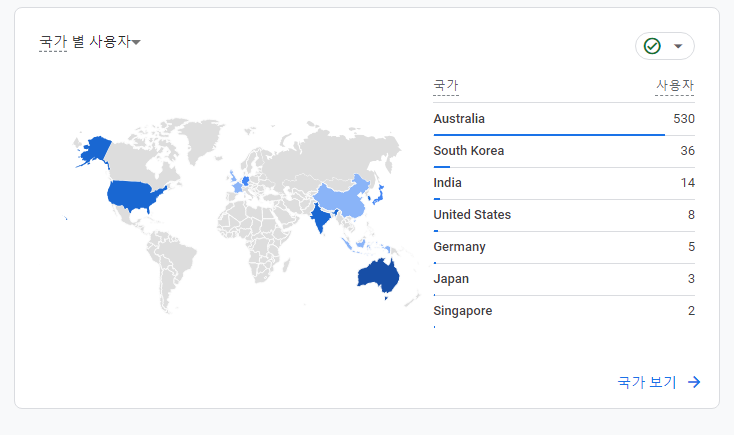
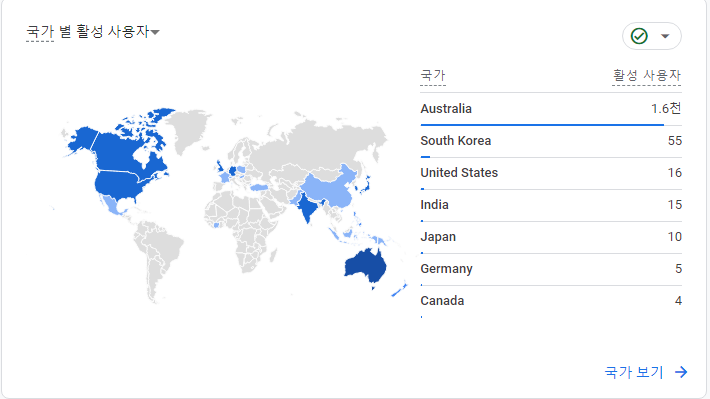
chore: joahair ui ux 성과 섹션 컨텐츠 변경

diff --git a/src/app/(menu)/projects/(projects)/joahair/page.tsx b/src/app/(menu)/projects/(projects)/joahair/page.tsx
@@ -112,7 +112,7 @@ export default function Page() {
             </h1>
             <div className={styles['page-element']}>
               <p className={styles['description-title']}>
-                Google Analytics을 통한 사용자 분석 및 UX 개선
+                Google Analytics을 통한 사용자 분석 및 UI/UX 개선
               </p>
               <Image
                 className={styles['project-capture']}
@@ -128,22 +128,24 @@ export default function Page() {
                 height={650}
                 alt="projectCapture"
               />
-              <div className={styles['description']}>
-                <p>
-                  Google Analytics를 프로젝트와 연동하고, Google Analytics의 통계 분석을 통해, 약
-                  85% 이상의 사용자가 호주에 위치해 있음을 반영하여 AWS 인프라와 Firebase 리전을
-                  호주로 설정하고, CDN을 구성하여 S3 버킷 데이터를 캐시하여 전달하는 프로세스를
-                  구축하여 로딩 속도를 최적화했습니다.
-                </p>
-                <p>
-                  또한, 모바일 사용자가 약 84%임을 감안하여 모든 디바이스에 대응하는 100% 반응형
-                  웹을 구현하고, keyframes와 transition을 사용해 marquee, spin, unfold 등 여러
-                  애니메이션 효과를 구현했습니다.
-                </p>
-              </div>
+              <ul className={`${styles['description']} ${styles['bullet']}`}>
+                <li>
+                  Google Analytics의 통계 분석을 통해, 서비스 사용자의 약 95%가 호주에 집중된 상황을
+                  인식했습니다. 따라서, AWS 인프라와 Firebase 리전을 호주로 설정하고, CDN을 구성하여
+                  CDN 서버에 S3 버킷 데이터를 캐시하는 프로세스를 구축하여 글로벌 서비스의 로딩
+                  속도를 최적화했습니다.
+                </li>
+                <li>
+                  모바일 사용자가 약 85%임을 감안하여 모든 디바이스에 대응하는 100% 반응형 웹을
+                  구현하고, keyframes와 transition을 사용해 marquee, spin, unfold 등 여러 애니메이션
+                  효과를 구현했습니다.
+                </li>
+              </ul>
             </div>
             <div className={styles['page-element']}>
-              <p className={styles['description-title']}>UX 개선을 통한 방문자 및 검색 실적 성과</p>
+              <p className={styles['description-title']}>
+                UI/UX 개선을 통한 방문자 및 검색 실적 성과
+              </p>
               <Image
                 className={styles['project-capture']}
                 src="/img/joahair/users.png"
@@ -161,10 +163,9 @@ export default function Page() {
 
               <div className={styles['description']}>
                 <p>
-                  위에서 언급했던 것처럼 사용자 분석 및 사용자 피드백을 바탕으로 성능 최적화,
-                  애니메이션 효과, 반응형 등을 통한 UX 최적화를 통해 고유 방문자 수 1000+명, 이탈률
-                  29.6%(Google Analytics), 검색엔진 노출 3000+번(Google Search Console) 등의 성과를
-                  달성했습니다.
+                  사용자 분석 및 사용자 피드백을 바탕으로 성능 최적화, 애니메이션 효과, 반응형 등을
+                  통한 UI/UX 최적화를 통해 고유 방문자 수 1700+명, 이탈률 30.2%(Google Analytics),
+                  검색엔진 노출 4600+번(Google Search Console) 등의 성과를 달성했습니다.
                 </p>
               </div>
             </div>

diff --git a/src/app/(menu)/projects/(projects)/joahair/page.module.css b/src/app/(menu)/projects/(projects)/joahair/page.module.css
@@ -293,3 +293,7 @@
 .preload-text {
   font-size: 1.2em;
 }
+
+.bullet {
+  list-style-type: disc;
+}
